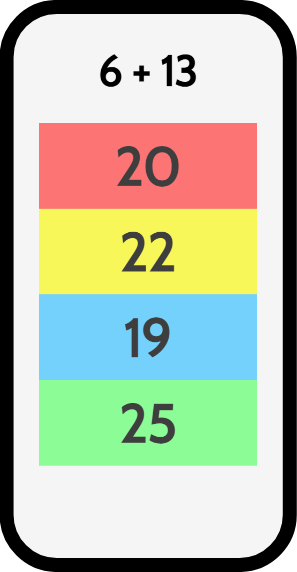
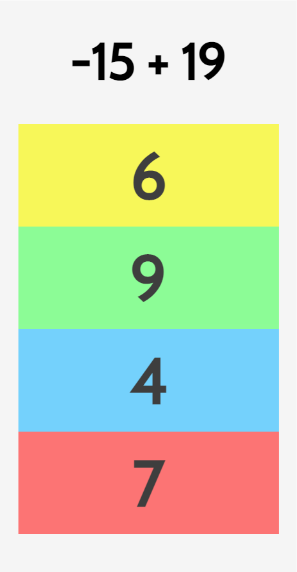
changed layer bg for work-imgs

diff --git a/index.html b/index.html
@@ -124,7 +124,7 @@
                 <h1 class="sub-title-alt">Projects</h1>
                 <div class="work-list">
                     <div class="work">
-                        <img src="images/work1.png">
+                        <img src="images/work1.png" id="workimg">
                         <div class="layer">
                             <a href="https://isharghura-aichatbot.onrender.com" target="_blank"><i class="fas fa-external-link-alt"></i></a>
                             <h1>AI Chatbot - WIP</h1>
@@ -134,7 +134,7 @@
                         </div>
                     </div>
                     <div class="work">
-                        <img src="images/work3.png">
+                        <img src="images/work3.png" id="workimg">
                         <div class="layer">
                             <a href="https://isharghura.com/mathquiz/" target="_blank"><i
                                     class="fas fa-external-link-alt"></i></a>
@@ -145,7 +145,7 @@
                         </div>
                     </div>
                     <div class="work">
-                        <img src="images/work2.png">
+                        <img src="images/work2.png" id="workimg">
                         <div class="layer">
                             <a href="https://isharghura.com/todolist/" target="_blank"><i
                                     class="fas fa-external-link-alt"></i></a>

diff --git a/style.css b/style.css
@@ -277,19 +277,20 @@ a:hover {
     height: auto;
     display: flex;
     transition: transform 0.5s;
-    background-image: url("images/phoneborder.png");
     background-size: 100%;
+    border-radius: 50.5px;
+    border: 10px solid black;
 }
 
 .layer {
-    border-radius: 11.5%;
-    width: 278px;
+    border-radius: 8.5%;
+    width: 280px;
     margin-left: 10px;
     height: 0;
     background: linear-gradient(rgba(0, 0, 0, 0.001), #ff0000);
     position: absolute;
     bottom: 0;
-    margin-bottom: 3.5%;
+    margin-bottom: 3.2%;
     overflow: hidden;
     display: flex;
     align-items: center;
